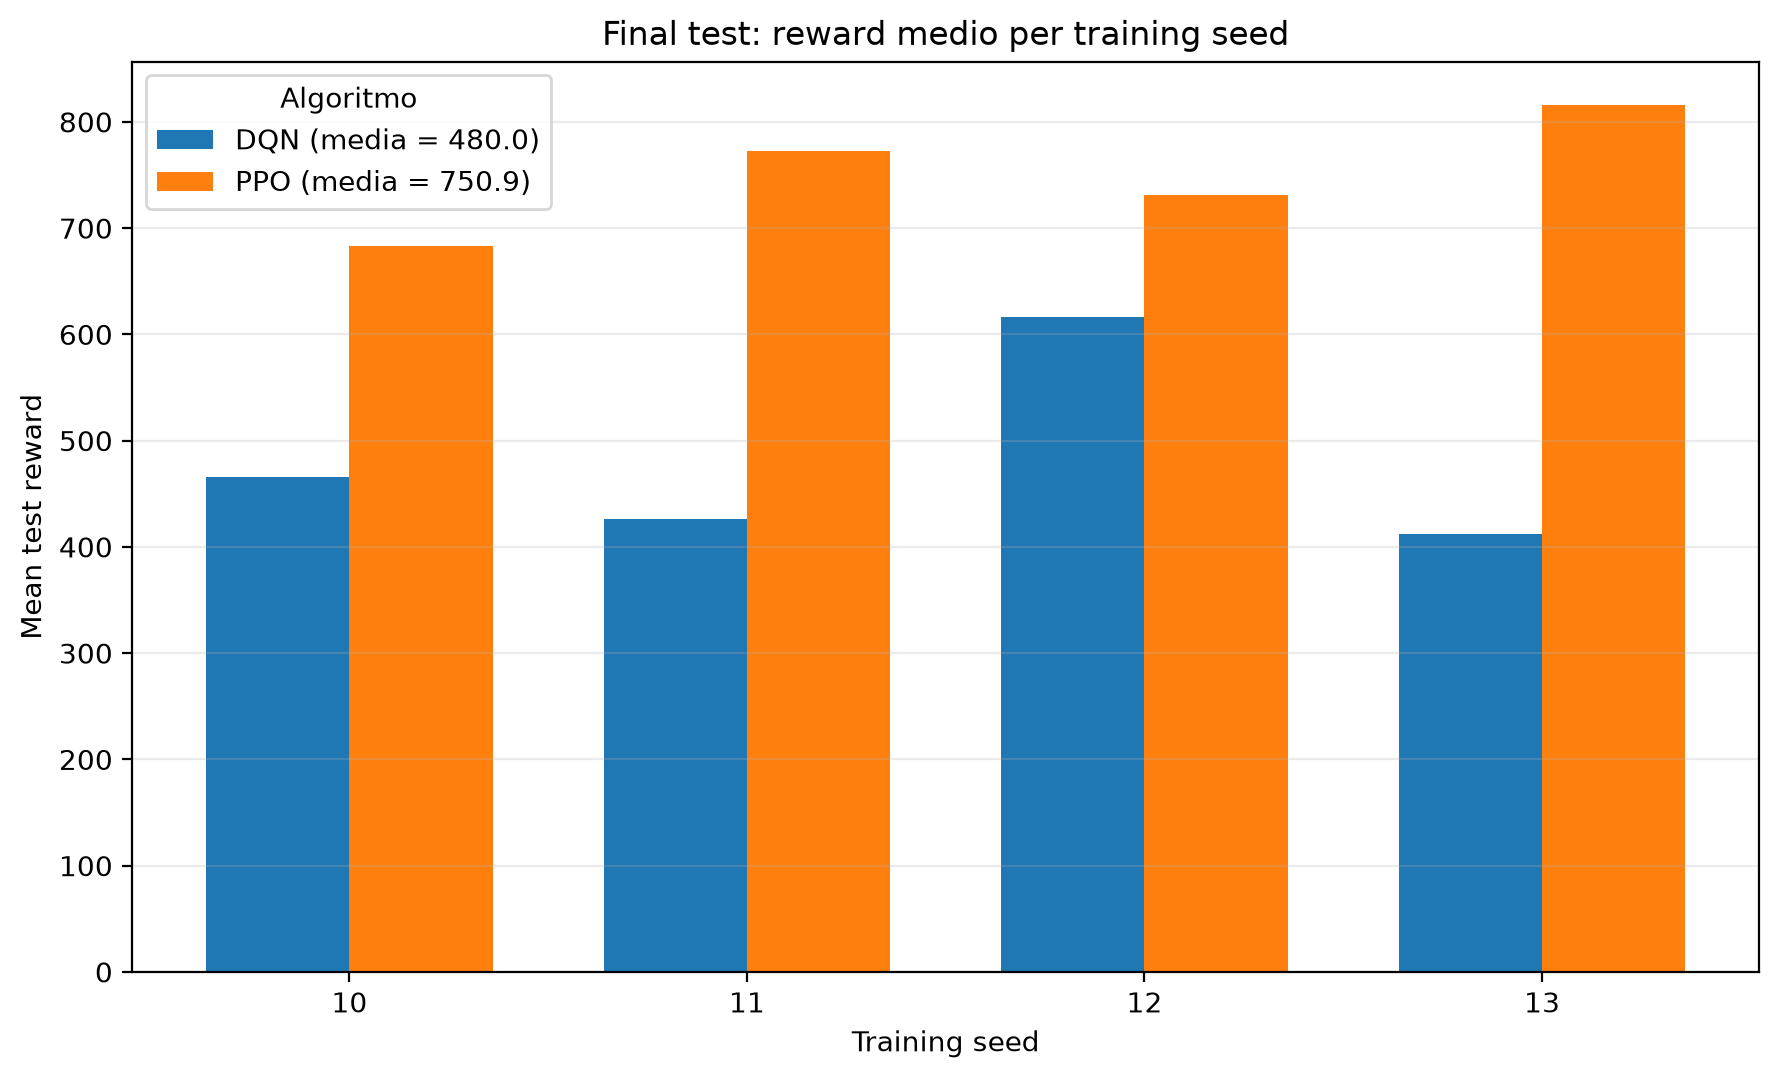
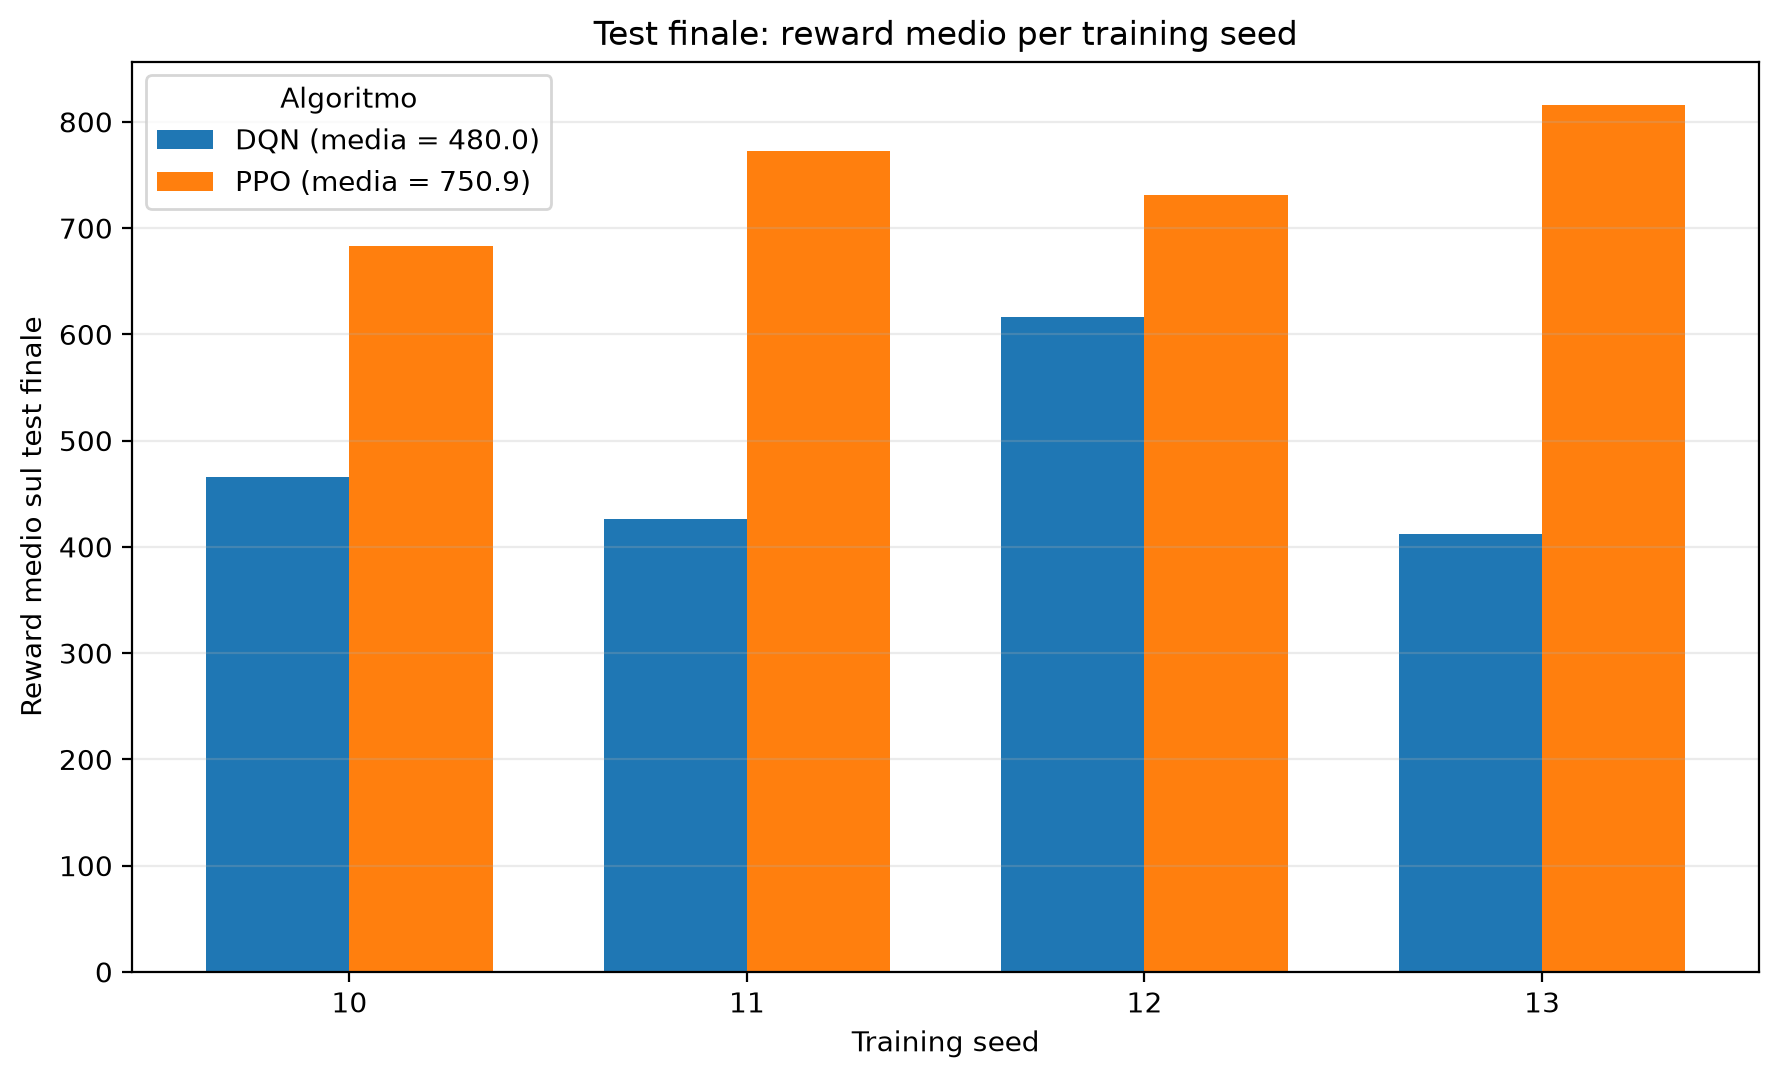
Correzione plot_results.py

Changed region(s): [[0.3401, 0.0, 0.742, 0.0612], [0.0, 0.3061, 0.0309, 0.6735]]

diff --git a/src/plot_results.py b/src/plot_results.py
@@ -107,11 +107,19 @@ def save_figure(fig: plt.Figure, path: Path, dpi: int) -> None:
 
 
 def plot_learning_curve(input_dir: Path, output_dir: Path, dpi: int) -> None:
-    """Learning curve media sui 4 training seed con fascia +/- 1 std."""
+    """
+    Learning curve PPO vs DQN.
 
-    path = input_dir / "learning_curve_algorithm.csv"
-    rows = read_csv(
-        path,
+    Mostra:
+    - le curve dei singoli training seed con linee sottili;
+    - la media sui training seed con linea più marcata;
+    - una fascia leggera +/- 1 deviazione standard.
+    """
+
+    # Curva aggregata tra training seed
+    algorithm_path = input_dir / "learning_curve_algorithm.csv"
+    algorithm_rows = read_csv(
+        algorithm_path,
         {
             "algorithm",
             "timesteps",
@@ -120,63 +128,228 @@ def plot_learning_curve(input_dir: Path, output_dir: Path, dpi: int) -> None:
         },
     )
 
-    grouped: dict[str, list[dict[str, str]]] = defaultdict(list)
-    for row in rows:
-        algorithm = row["algorithm"].strip().lower()
-        if algorithm in ALGORITHMS:
-            grouped[algorithm].append(row)
+    # Curve dei singoli training
+    per_run_path = input_dir / "learning_curve_per_run.csv"
+    per_run_rows = read_csv(
+        per_run_path,
+        {
+            "algorithm",
+            "training_seed",
+            "timesteps",
+            "mean_validation_reward",
+        },
+    )
 
-    fig, ax = plt.subplots(figsize=(9, 5.5))
+    aggregated: dict[str, list[dict[str, str]]] = defaultdict(list)
+
+    for row in algorithm_rows:
+        algorithm = row["algorithm"].strip().lower()
+
+        if algorithm in ALGORITHMS:
+            aggregated[algorithm].append(row)
+
+    individual: dict[
+        tuple[str, int],
+        list[dict[str, str]]
+    ] = defaultdict(list)
+
+    for row in per_run_rows:
+        algorithm = row["algorithm"].strip().lower()
+
+        if algorithm in ALGORITHMS:
+            training_seed = as_int(
+                row["training_seed"]
+            )
+
+            individual[
+                (algorithm, training_seed)
+            ].append(row)
+
+    fig, ax = plt.subplots(
+        figsize=(9, 5.5)
+    )
 
     for algorithm in ALGORITHMS:
+
         algorithm_rows = sorted(
-            grouped.get(algorithm, []),
-            key=lambda row: as_int(row["timesteps"]),
+            aggregated.get(
+                algorithm,
+                [],
+            ),
+            key=lambda row:
+                as_int(
+                    row["timesteps"]
+                ),
         )
 
         if not algorithm_rows:
-            raise ValueError(f"Nessun dato learning curve per {algorithm.upper()}.")
+            raise ValueError(
+                f"Nessun dato learning curve "
+                f"per {algorithm.upper()}."
+            )
 
         timesteps = np.asarray(
-            [as_int(row["timesteps"]) for row in algorithm_rows],
-            dtype=np.int64,
-        )
-        means = np.asarray(
             [
-                as_float(row["mean_validation_reward_across_training_seeds"])
+                as_int(row["timesteps"])
                 for row in algorithm_rows
             ],
-            dtype=np.float64,
+            dtype=np.int64,
         )
-        stds = np.asarray(
+
+        means = np.asarray(
             [
-                as_float(row["std_validation_reward_between_training_seeds"])
+                as_float(
+                    row[
+                        "mean_validation_reward_across_training_seeds"
+                    ]
+                )
                 for row in algorithm_rows
             ],
             dtype=np.float64,
         )
 
-        line = ax.plot(
+        stds = np.asarray(
+            [
+                as_float(
+                    row[
+                        "std_validation_reward_between_training_seeds"
+                    ]
+                )
+                for row in algorithm_rows
+            ],
+            dtype=np.float64,
+        )
+
+        # Curva media.
+        mean_line = ax.plot(
             timesteps,
             means,
-            linewidth=2,
-            label=DISPLAY_NAME[algorithm],
+            linewidth=2.4,
+            label=DISPLAY_NAME[
+                algorithm
+            ],
+            zorder=3,
         )[0]
+
+        line_color = (
+            mean_line.get_color()
+        )
+
+        # Singoli training seed.
+        training_seeds = sorted(
+            seed
+            for (
+                algo,
+                seed,
+            ) in individual
+            if algo == algorithm
+        )
+
+        for training_seed in training_seeds:
+
+            seed_rows = sorted(
+                individual[
+                    (
+                        algorithm,
+                        training_seed,
+                    )
+                ],
+                key=lambda row:
+                    as_int(
+                        row["timesteps"]
+                    ),
+            )
+
+            seed_timesteps = [
+                as_int(
+                    row["timesteps"]
+                )
+                for row in seed_rows
+            ]
+
+            seed_rewards = [
+                as_float(
+                    row[
+                        "mean_validation_reward"
+                    ]
+                )
+                for row in seed_rows
+            ]
+
+            ax.plot(
+                seed_timesteps,
+                seed_rewards,
+                linewidth=0.8,
+                alpha=0.18,
+                color=line_color,
+                zorder=1,
+            )
+
+        # Fascia +/- 1 deviazione standard.
         ax.fill_between(
             timesteps,
             means - stds,
             means + stds,
-            alpha=0.18,
-            color=line.get_color(),
+            alpha=0.08,
+            color=line_color,
+            zorder=0,
         )
 
-    ax.set_title("Learning curve: PPO vs DQN")
-    ax.set_xlabel("Environment timesteps")
-    ax.set_ylabel("Mean validation reward")
-    ax.grid(True, alpha=0.25)
-    ax.legend(title="Algoritmo")
+    ax.set_title(
+        "Curva di apprendimento: PPO vs DQN"
+    )
 
-    save_figure(fig, output_dir / "learning_curve.png", dpi)
+    ax.set_xlabel(
+        "Timestep di training"
+    )
+
+    ax.set_ylabel(
+        "Reward medio di validazione"
+    )
+
+    # Asse più leggibile rispetto alla notazione 1e6.
+    tick_values = [
+        0,
+        200_000,
+        400_000,
+        600_000,
+        800_000,
+        1_000_000,
+    ]
+
+    tick_labels = [
+        "0",
+        "200k",
+        "400k",
+        "600k",
+        "800k",
+        "1M",
+    ]
+
+    ax.set_xticks(
+        tick_values,
+        tick_labels,
+    )
+
+    ax.set_xlim(
+        0,
+        1_000_000,
+    )
+
+    ax.grid(
+        True,
+        alpha=0.25,
+    )
+
+    ax.legend(
+        title="Algoritmo"
+    )
+
+    save_figure(
+        fig,
+        output_dir / "learning_curve.png",
+        dpi,
+    )
 
 
 def load_test_summaries(
@@ -258,9 +431,18 @@ def plot_final_reward_by_seed(input_dir: Path, output_dir: Path, dpi: int) -> No
         label=f"PPO (media = {ppo_mean:.1f})",
     )
 
-    ax.set_title("Final test: reward medio per training seed")
-    ax.set_xlabel("Training seed")
-    ax.set_ylabel("Mean test reward")
+    ax.set_title(
+        "Test finale: reward medio per training seed"
+    )
+
+    ax.set_xlabel(
+        "Training seed"
+    )
+
+    ax.set_ylabel(
+        "Reward medio sul test finale"
+    )
+    
     ax.set_xticks(x, [str(seed) for seed in seeds])
     ax.grid(True, axis="y", alpha=0.25)
     ax.legend(title="Algoritmo")
@@ -317,9 +499,18 @@ def plot_final_track_completion_by_seed(
         label=f"PPO (media = {100.0 * ppo_mean:.1f}%)",
     )
 
-    ax.set_title("Final test: track completion per training seed")
-    ax.set_xlabel("Training seed")
-    ax.set_ylabel("Mean track completion")
+    ax.set_title(
+        "Test finale: completamento medio della pista"
+    )
+
+    ax.set_xlabel(
+        "Training seed"
+    )
+
+    ax.set_ylabel(
+        "Completamento medio della pista"
+    )
+
     ax.set_xticks(x, [str(seed) for seed in seeds])
     ax.set_ylim(0.0, 1.0)
     ax.yaxis.set_major_formatter(PercentFormatter(xmax=1.0))
@@ -374,9 +565,18 @@ def plot_final_reward_per_track(input_dir: Path, output_dir: Path, dpi: int) -> 
             label=DISPLAY_NAME[algorithm],
         )
 
-    ax.set_title("Final test: reward medio sulle 30 piste")
-    ax.set_xlabel("Test seed")
-    ax.set_ylabel("Mean reward across training seeds")
+    ax.set_title(
+        "Test finale: reward medio sulle 30 piste"
+    )
+
+    ax.set_xlabel(
+        "Test seed"
+    )
+
+    ax.set_ylabel(
+        "Reward medio tra i training seed"
+    )
+    
     ax.grid(True, alpha=0.25)
     ax.legend(title="Algoritmo")
 
